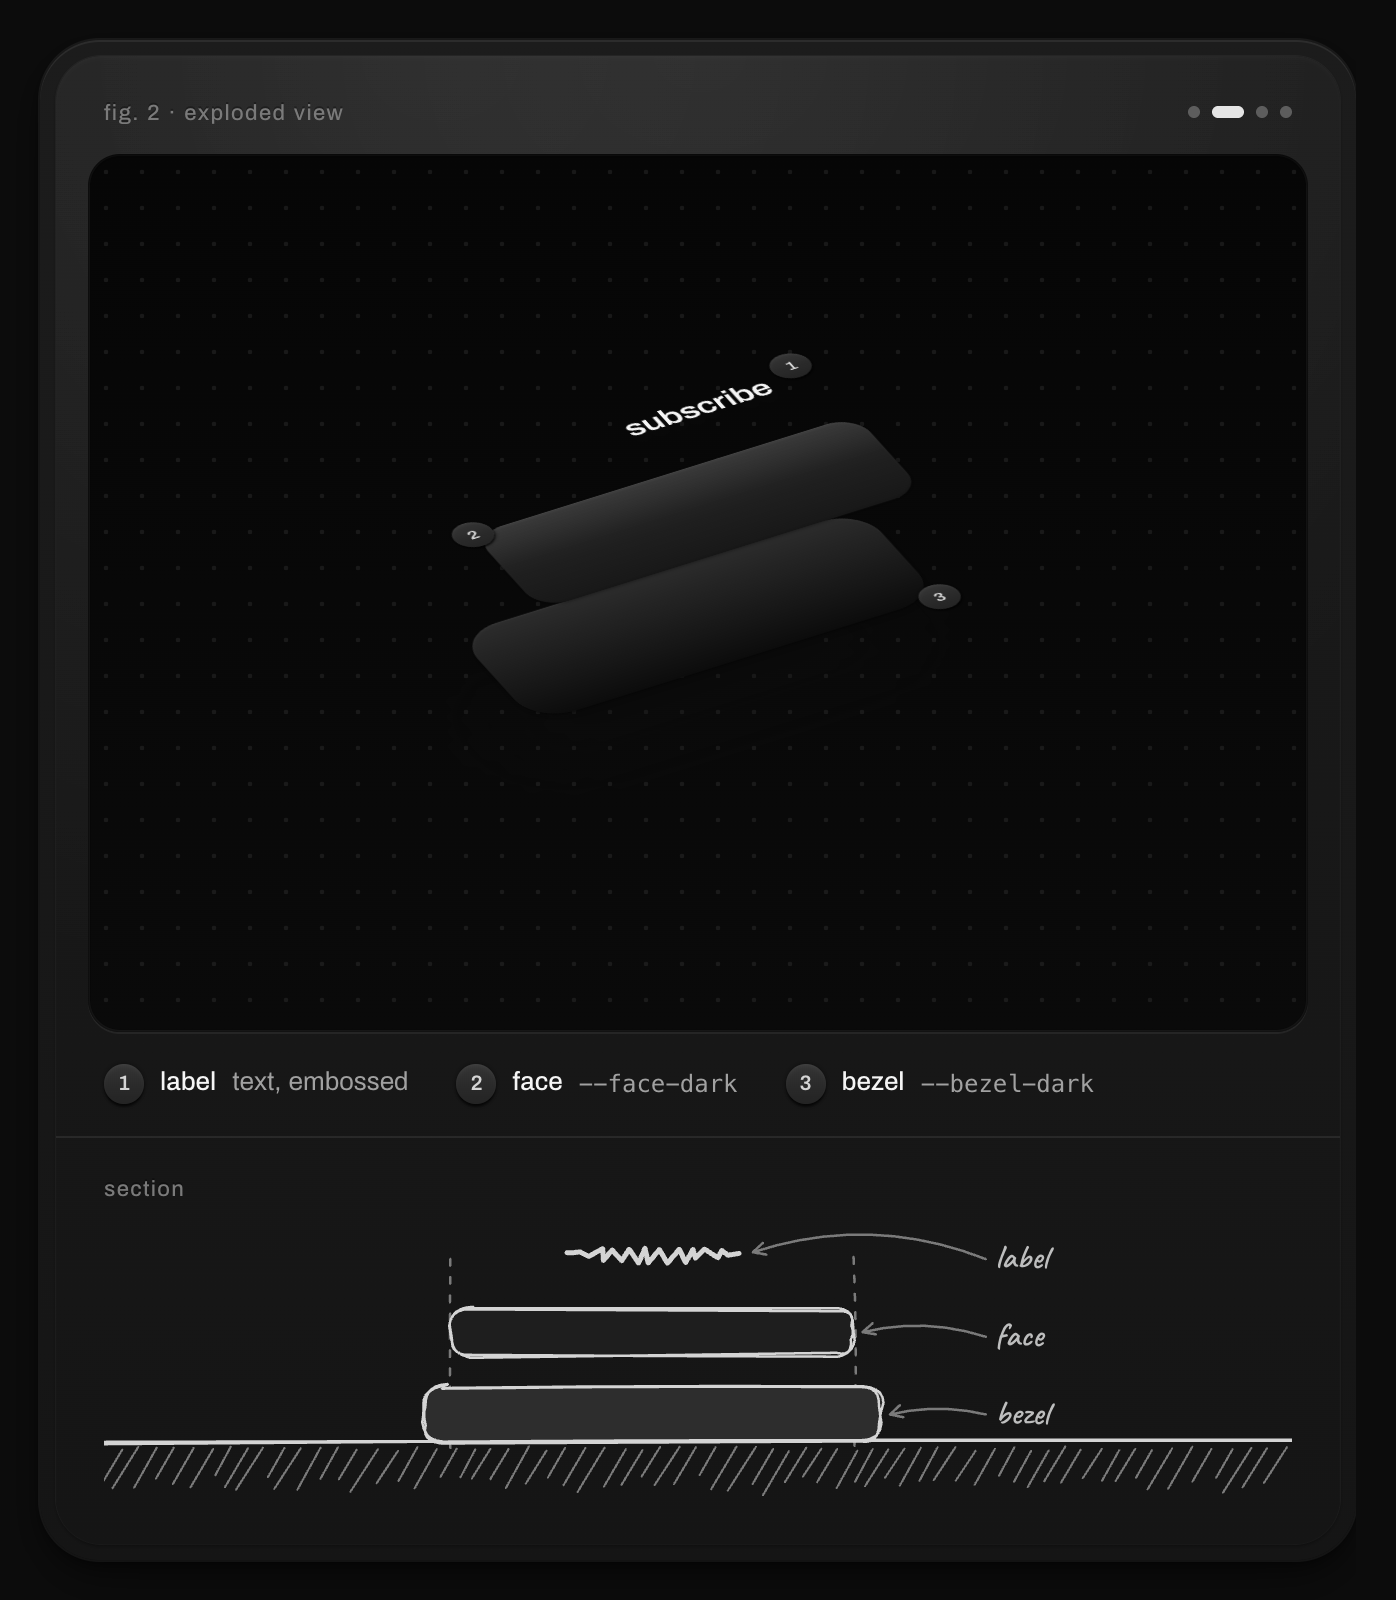
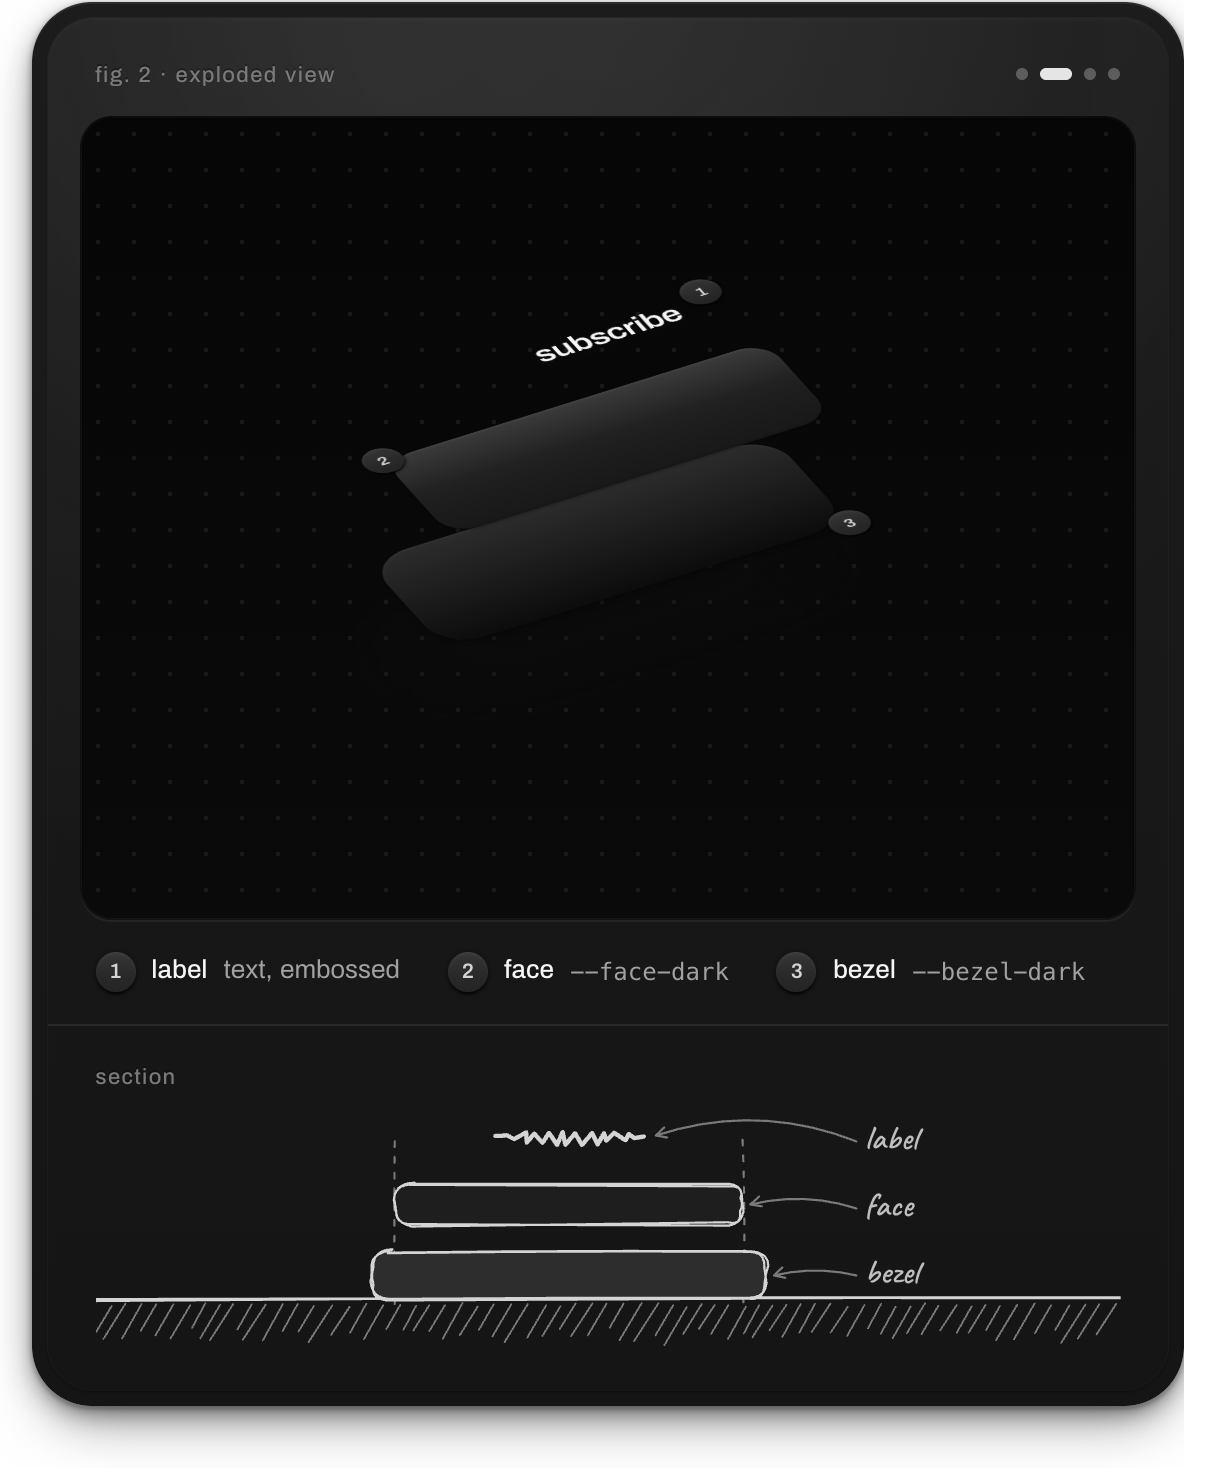
Make the readme images readable on GitHub
Retake the screenshots at a narrower width so their text survives
GitHub's 830px column, drop the grey backgrounds so the cards sit on
the page, round the full-width shots, put the lighting and
raised/sunken figures side by side, and fit the terminal to its
longest line.

diff --git a/README.md b/README.md
@@ -41,7 +41,7 @@ npx @blurrow/ui init
 that's the whole setup. it installs the package, adds two lines to your stylesheet, loads the archivo font, wraps your app in `ToastProvider` and writes a small `blurrow.json`. it shows you each change before it writes anything, and running it a second time won't hurt.
 
 <p align="center">
-  <img src=".github/readme/cli.png" alt="the blurrow cli setting up a next.js project" width="640">
+  <img src=".github/readme/cli.png" alt="the blurrow cli setting up a next.js project" width="100%">
 </p>
 
 then use whatever you like:
@@ -88,7 +88,7 @@ everything takes `--yes`, `--dry-run` and `--cwd <path>`. once the package is in
 <p align="center">
   <picture>
     <source media="(prefers-color-scheme: dark)" srcset=".github/readme/anatomy-dark.png">
-    <img src=".github/readme/anatomy.png" alt="fig. 2, exploded view: a subscribe button pulled apart into its three layers, label, face and bezel" width="640">
+    <img src=".github/readme/anatomy.png" alt="fig. 2, exploded view: a subscribe button pulled apart into its three layers, label, face and bezel" width="560">
   </picture>
 </p>
 
@@ -96,19 +96,12 @@ every control is built from three layers: a bezel that never moves, a face that 
 
 <p align="center">
   <picture>
-    <source media="(prefers-color-scheme: dark)" srcset=".github/readme/raised-sunken-dark.png">
-    <img src=".github/readme/raised-sunken.png" alt="fig. 4, raised and sunken: a text field cut into the surface next to a key standing up on it" width="640">
+    <source media="(prefers-color-scheme: dark)" srcset=".github/readme/lighting-dark.png">
+    <img src=".github/readme/lighting.png" alt="two figures side by side. fig. 3, lighting: a lamp above a button, with the highlight on the edge facing it and the shadow falling away. fig. 4, raised and sunken: a text field cut into the surface next to a key standing up on it" width="100%">
   </picture>
 </p>
 
 things you press are raised. things you type into are sunken. you can tell a button from a field before you've read either of them.
-
-<p align="center">
-  <picture>
-    <source media="(prefers-color-scheme: dark)" srcset=".github/readme/lighting-dark.png">
-    <img src=".github/readme/lighting.png" alt="fig. 3, lighting: a lamp above a button, with the highlight on the edge facing it and the shadow falling away" width="640">
-  </picture>
-</p>
 
 and every shadow is drawn as if one lamp is hanging right above your screen. top edges catch the light, bottom edges fall into shade. since the lamp stays put, everything on the page agrees on where the light is. on [the website](https://www.blurrow.org) you can watch it swing out of place for a moment and the highlights follow it.
 
